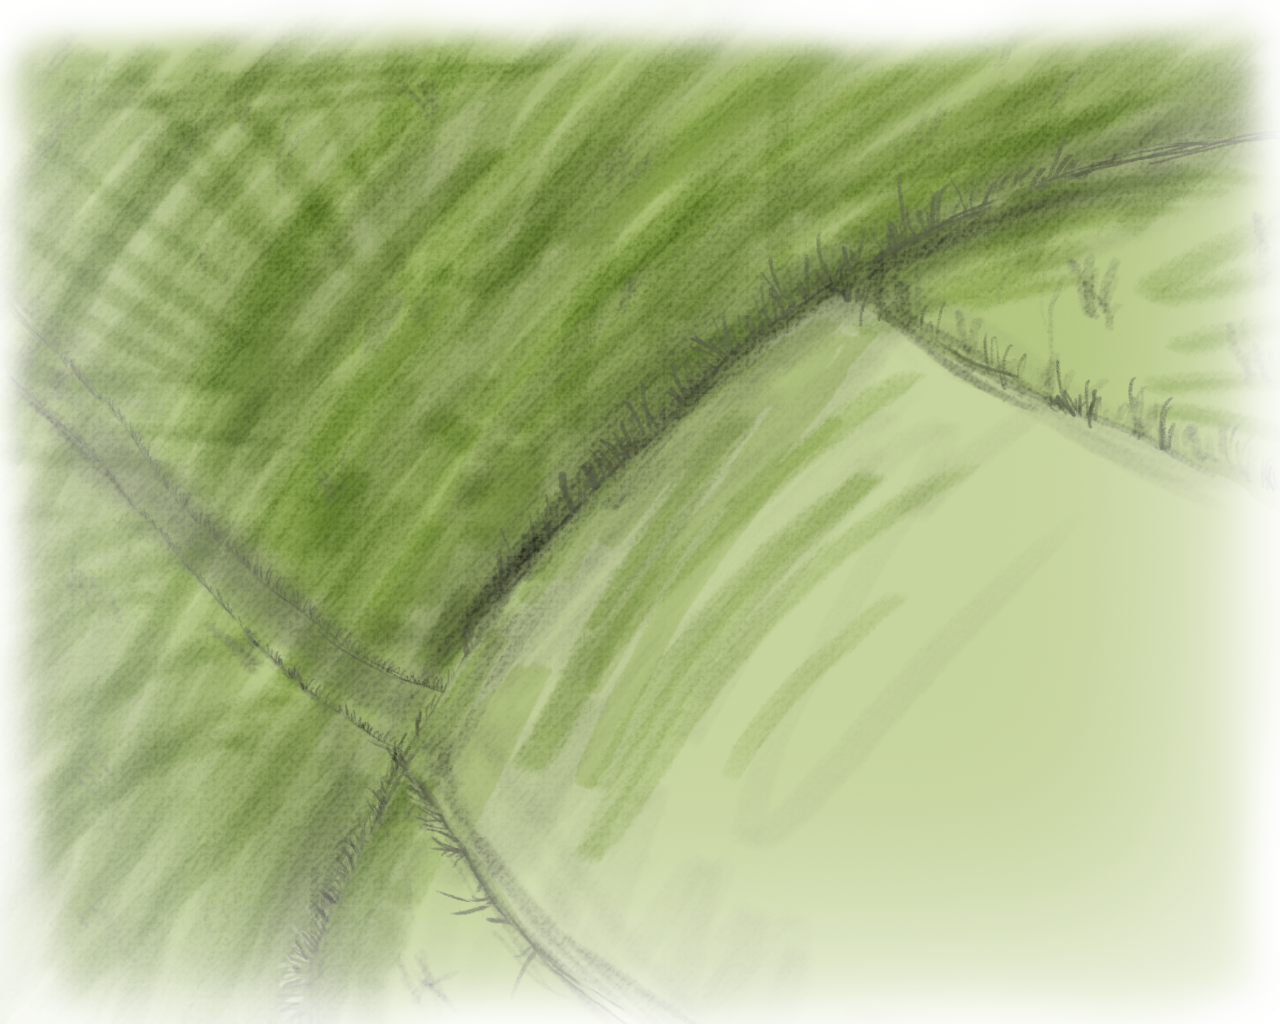
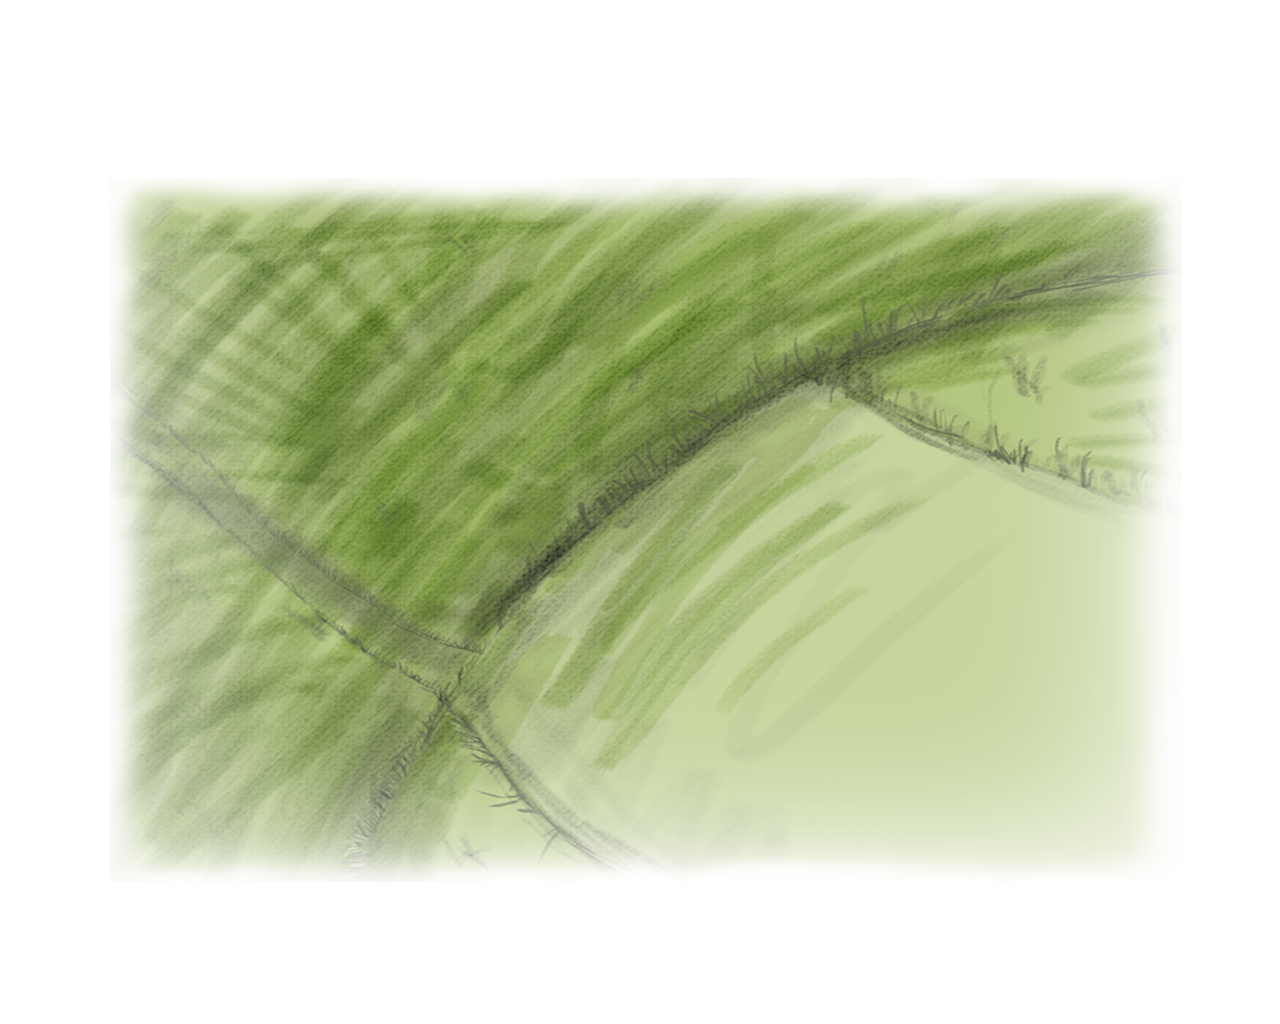
Setup parallax plus adjusted images to parallax effects

diff --git a/stories/assets/js/parallax.min.js b/stories/assets/js/parallax.min.js
@@ -1,0 +1,6 @@
+/*!
+ * parallax.js v1.4.2 (http://pixelcog.github.io/parallax.js/)
+ * @copyright 2016 PixelCog, Inc.
+ * @license MIT (https://github.com/pixelcog/parallax.js/blob/master/LICENSE)
+ */
+!function(t,i,e,s){function o(i,e){var h=this;"object"==typeof e&&(delete e.refresh,delete e.render,t.extend(this,e)),this.$element=t(i),!this.imageSrc&&this.$element.is("img")&&(this.imageSrc=this.$element.attr("src"));var r=(this.position+"").toLowerCase().match(/\S+/g)||[];if(r.length<1&&r.push("center"),1==r.length&&r.push(r[0]),("top"==r[0]||"bottom"==r[0]||"left"==r[1]||"right"==r[1])&&(r=[r[1],r[0]]),this.positionX!=s&&(r[0]=this.positionX.toLowerCase()),this.positionY!=s&&(r[1]=this.positionY.toLowerCase()),h.positionX=r[0],h.positionY=r[1],"left"!=this.positionX&&"right"!=this.positionX&&(this.positionX=isNaN(parseInt(this.positionX))?"center":parseInt(this.positionX)),"top"!=this.positionY&&"bottom"!=this.positionY&&(this.positionY=isNaN(parseInt(this.positionY))?"center":parseInt(this.positionY)),this.position=this.positionX+(isNaN(this.positionX)?"":"px")+" "+this.positionY+(isNaN(this.positionY)?"":"px"),navigator.userAgent.match(/(iPod|iPhone|iPad)/))return this.imageSrc&&this.iosFix&&!this.$element.is("img")&&this.$element.css({backgroundImage:"url("+this.imageSrc+")",backgroundSize:"cover",backgroundPosition:this.position}),this;if(navigator.userAgent.match(/(Android)/))return this.imageSrc&&this.androidFix&&!this.$element.is("img")&&this.$element.css({backgroundImage:"url("+this.imageSrc+")",backgroundSize:"cover",backgroundPosition:this.position}),this;this.$mirror=t("<div />").prependTo("body");var a=this.$element.find(">.parallax-slider"),n=!1;0==a.length?this.$slider=t("<img />").prependTo(this.$mirror):(this.$slider=a.prependTo(this.$mirror),n=!0),this.$mirror.addClass("parallax-mirror").css({visibility:"hidden",zIndex:this.zIndex,position:"fixed",top:0,left:0,overflow:"hidden"}),this.$slider.addClass("parallax-slider").one("load",function(){h.naturalHeight&&h.naturalWidth||(h.naturalHeight=this.naturalHeight||this.height||1,h.naturalWidth=this.naturalWidth||this.width||1),h.aspectRatio=h.naturalWidth/h.naturalHeight,o.isSetup||o.setup(),o.sliders.push(h),o.isFresh=!1,o.requestRender()}),n||(this.$slider[0].src=this.imageSrc),(this.naturalHeight&&this.naturalWidth||this.$slider[0].complete||a.length>0)&&this.$slider.trigger("load")}function h(s){return this.each(function(){var h=t(this),r="object"==typeof s&&s;this==i||this==e||h.is("body")?o.configure(r):h.data("px.parallax")?"object"==typeof s&&t.extend(h.data("px.parallax"),r):(r=t.extend({},h.data(),r),h.data("px.parallax",new o(this,r))),"string"==typeof s&&("destroy"==s?o.destroy(this):o[s]())})}!function(){for(var t=0,e=["ms","moz","webkit","o"],s=0;s<e.length&&!i.requestAnimationFrame;++s)i.requestAnimationFrame=i[e[s]+"RequestAnimationFrame"],i.cancelAnimationFrame=i[e[s]+"CancelAnimationFrame"]||i[e[s]+"CancelRequestAnimationFrame"];i.requestAnimationFrame||(i.requestAnimationFrame=function(e){var s=(new Date).getTime(),o=Math.max(0,16-(s-t)),h=i.setTimeout(function(){e(s+o)},o);return t=s+o,h}),i.cancelAnimationFrame||(i.cancelAnimationFrame=function(t){clearTimeout(t)})}(),t.extend(o.prototype,{speed:.2,bleed:0,zIndex:-100,iosFix:!0,androidFix:!0,position:"center",overScrollFix:!1,refresh:function(){this.boxWidth=this.$element.outerWidth(),this.boxHeight=this.$element.outerHeight()+2*this.bleed,this.boxOffsetTop=this.$element.offset().top-this.bleed,this.boxOffsetLeft=this.$element.offset().left,this.boxOffsetBottom=this.boxOffsetTop+this.boxHeight;var t=o.winHeight,i=o.docHeight,e=Math.min(this.boxOffsetTop,i-t),s=Math.max(this.boxOffsetTop+this.boxHeight-t,0),h=this.boxHeight+(e-s)*(1-this.speed)|0,r=(this.boxOffsetTop-e)*(1-this.speed)|0;if(h*this.aspectRatio>=this.boxWidth){this.imageWidth=h*this.aspectRatio|0,this.imageHeight=h,this.offsetBaseTop=r;var a=this.imageWidth-this.boxWidth;this.offsetLeft="left"==this.positionX?0:"right"==this.positionX?-a:isNaN(this.positionX)?-a/2|0:Math.max(this.positionX,-a)}else{this.imageWidth=this.boxWidth,this.imageHeight=this.boxWidth/this.aspectRatio|0,this.offsetLeft=0;var a=this.imageHeight-h;this.offsetBaseTop="top"==this.positionY?r:"bottom"==this.positionY?r-a:isNaN(this.positionY)?r-a/2|0:r+Math.max(this.positionY,-a)}},render:function(){var t=o.scrollTop,i=o.scrollLeft,e=this.overScrollFix?o.overScroll:0,s=t+o.winHeight;this.boxOffsetBottom>t&&this.boxOffsetTop<=s?(this.visibility="visible",this.mirrorTop=this.boxOffsetTop-t,this.mirrorLeft=this.boxOffsetLeft-i,this.offsetTop=this.offsetBaseTop-this.mirrorTop*(1-this.speed)):this.visibility="hidden",this.$mirror.css({transform:"translate3d(0px, 0px, 0px)",visibility:this.visibility,top:this.mirrorTop-e,left:this.mirrorLeft,height:this.boxHeight,width:this.boxWidth}),this.$slider.css({transform:"translate3d(0px, 0px, 0px)",position:"absolute",top:this.offsetTop,left:this.offsetLeft,height:this.imageHeight,width:this.imageWidth,maxWidth:"none"})}}),t.extend(o,{scrollTop:0,scrollLeft:0,winHeight:0,winWidth:0,docHeight:1<<30,docWidth:1<<30,sliders:[],isReady:!1,isFresh:!1,isBusy:!1,setup:function(){if(!this.isReady){var s=t(e),h=t(i),r=function(){o.winHeight=h.height(),o.winWidth=h.width(),o.docHeight=s.height(),o.docWidth=s.width()},a=function(){var t=h.scrollTop(),i=o.docHeight-o.winHeight,e=o.docWidth-o.winWidth;o.scrollTop=Math.max(0,Math.min(i,t)),o.scrollLeft=Math.max(0,Math.min(e,h.scrollLeft())),o.overScroll=Math.max(t-i,Math.min(t,0))};h.on("resize.px.parallax load.px.parallax",function(){r(),o.isFresh=!1,o.requestRender()}).on("scroll.px.parallax load.px.parallax",function(){a(),o.requestRender()}),r(),a(),this.isReady=!0}},configure:function(i){"object"==typeof i&&(delete i.refresh,delete i.render,t.extend(this.prototype,i))},refresh:function(){t.each(this.sliders,function(){this.refresh()}),this.isFresh=!0},render:function(){this.isFresh||this.refresh(),t.each(this.sliders,function(){this.render()})},requestRender:function(){var t=this;this.isBusy||(this.isBusy=!0,i.requestAnimationFrame(function(){t.render(),t.isBusy=!1}))},destroy:function(e){var s,h=t(e).data("px.parallax");for(h.$mirror.remove(),s=0;s<this.sliders.length;s+=1)this.sliders[s]==h&&this.sliders.splice(s,1);t(e).data("px.parallax",!1),0===this.sliders.length&&(t(i).off("scroll.px.parallax resize.px.parallax load.px.parallax"),this.isReady=!1,o.isSetup=!1)}});var r=t.fn.parallax;t.fn.parallax=h,t.fn.parallax.Constructor=o,t.fn.parallax.noConflict=function(){return t.fn.parallax=r,this},t(e).on("ready.px.parallax.data-api",function(){t('[data-parallax="scroll"]').parallax()})}(jQuery,window,document);

diff --git a/stories/jnj/index.html b/stories/jnj/index.html
@@ -56,25 +56,19 @@
 
       <h3 class="animated wow fadeInDown text">Jack and Jill went up the hill to fetch a pail of water.</h3>
 
-    <div id="page-01" class="story-container page">
+    <div id="page-01" data-parallax="scroll" data-image-src="img/jnj-01-bg.png" class="page">
 
   
-        <div id="jnj-01-div">
-
         <img src="img/jnj-01-jack.png" class="animated wow slideInLeft" data-wow-offset="500" alt="Jack and Jill went up the hill...">
         <img src="img/jnj-01-jill.png" class="animated wow slideInRight" data-wow-offset="650" alt="...to fetch a pail of water.">
 
 
-        </div>
-
-
-
-
     </div> <!-- CLOSE PAGE-01 -->
+    <h3 class="animated wow fadeInDown text">Jack fell down and broke his crown, and Jill came tumbling after</h3>
 
-    <div id="page-02" class="story-container page">
+    <div id="page-02" data-parallax="scroll" data-image-src="img/jnj-02-bg.png" class="page">
     
-        <h3 class="animated wow fadeInDown text">Jack fell down and broke his crown, and Jill came tumbling after</h3>
+        
        
         <img src="img/jnj-02-jack.png" class="animated wow slideInRight zoomOut left" data-wow-offset="800" alt="Jack fell down and broke his crown">
 
@@ -159,6 +153,7 @@
 <script src="https://cdnjs.cloudflare.com/ajax/libs/animsition/4.0.2/js/animsition.min.js"></script>
 
  <script src="../assets/js/wow.min.js"></script>
+ <script src="../assets/js/parallax.min.js"></script>
  <script>
       wow = new WOW(
       {

diff --git a/stories/jnj/css/jnj.css b/stories/jnj/css/jnj.css
@@ -85,7 +85,9 @@ margin: 0 200px 30px 200px;
 	margin: 0 auto;
 	padding: 0;
 	width: 100%;
+	background-size: ;
 }
+
 
 
 
@@ -100,21 +102,18 @@ margin: 0 200px 30px 200px;
 	padding: 0;
 }
 
-/*.story-container img {
-	width: 25%;
-}*/
-
-#page-01 {
-	background: url('../img/jnj-01-bg.png') no-repeat center center; 
+/*
+#page-01 { 
 	background-size: contain;
 	
 }
 
+
 #page-01 img {
-	width: 25%;
+	width: 45%;
 }
 
-#jnj-01-div {
+/*#jnj-01-div {
 	width: 75%;
 	margin: 0 auto;
 	padding-left: 20%;
@@ -126,7 +125,7 @@ margin: 0 200px 30px 200px;
 	background-size: contain;
 
 	margin-bottom: 100px;
-}
+}*/
 
 
 
